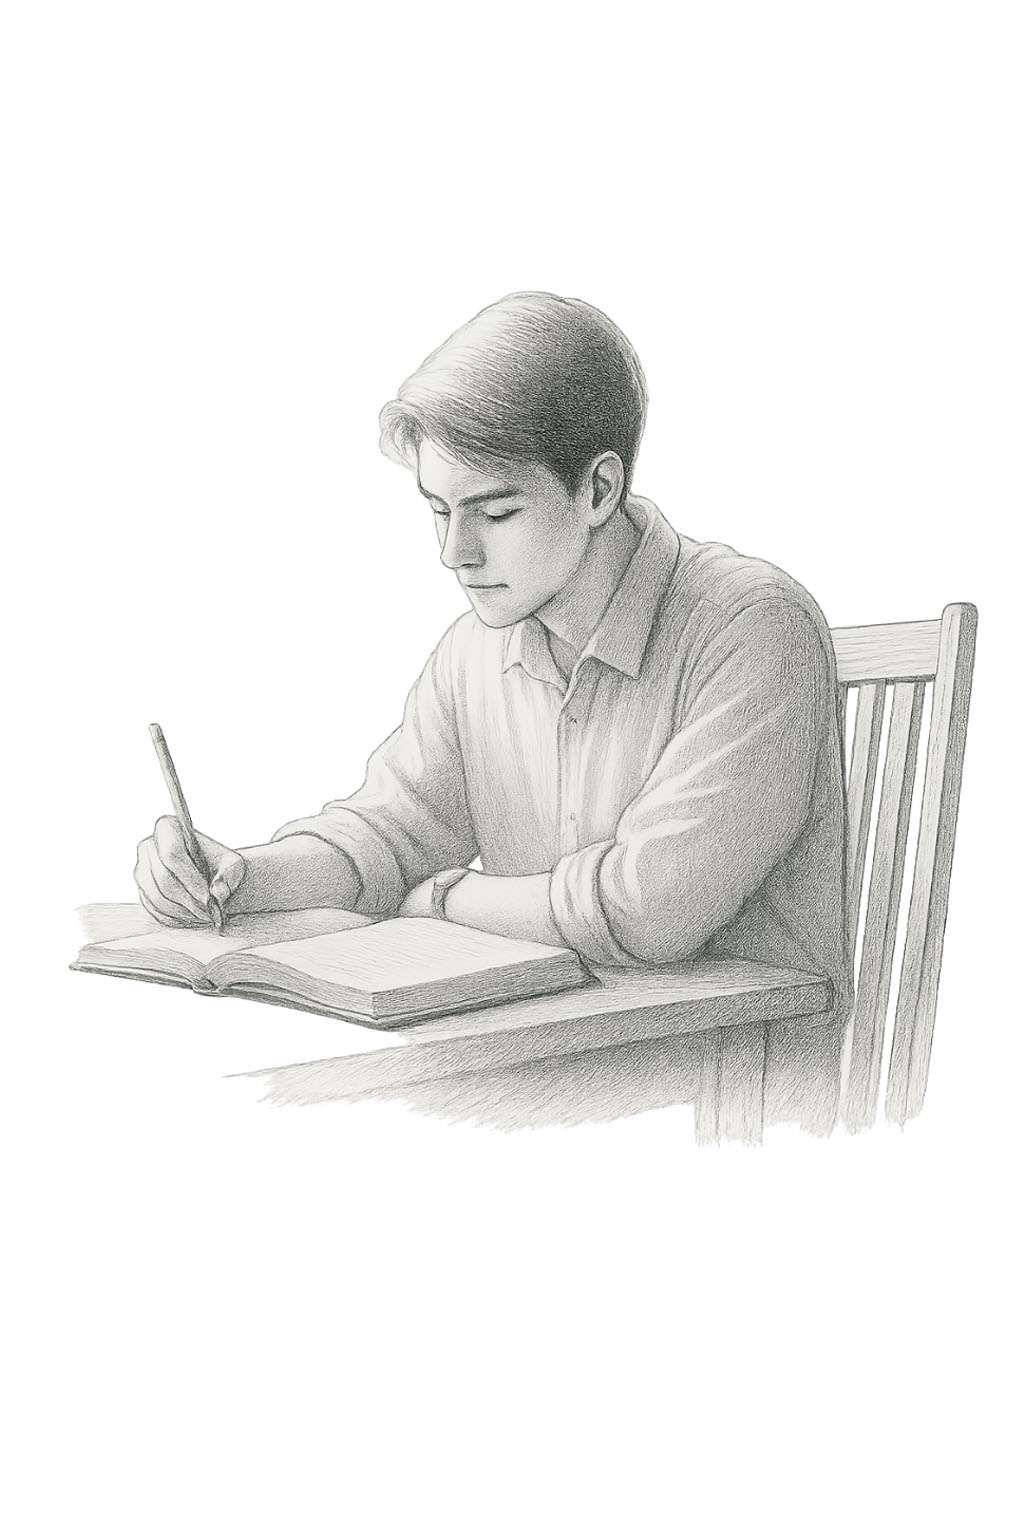
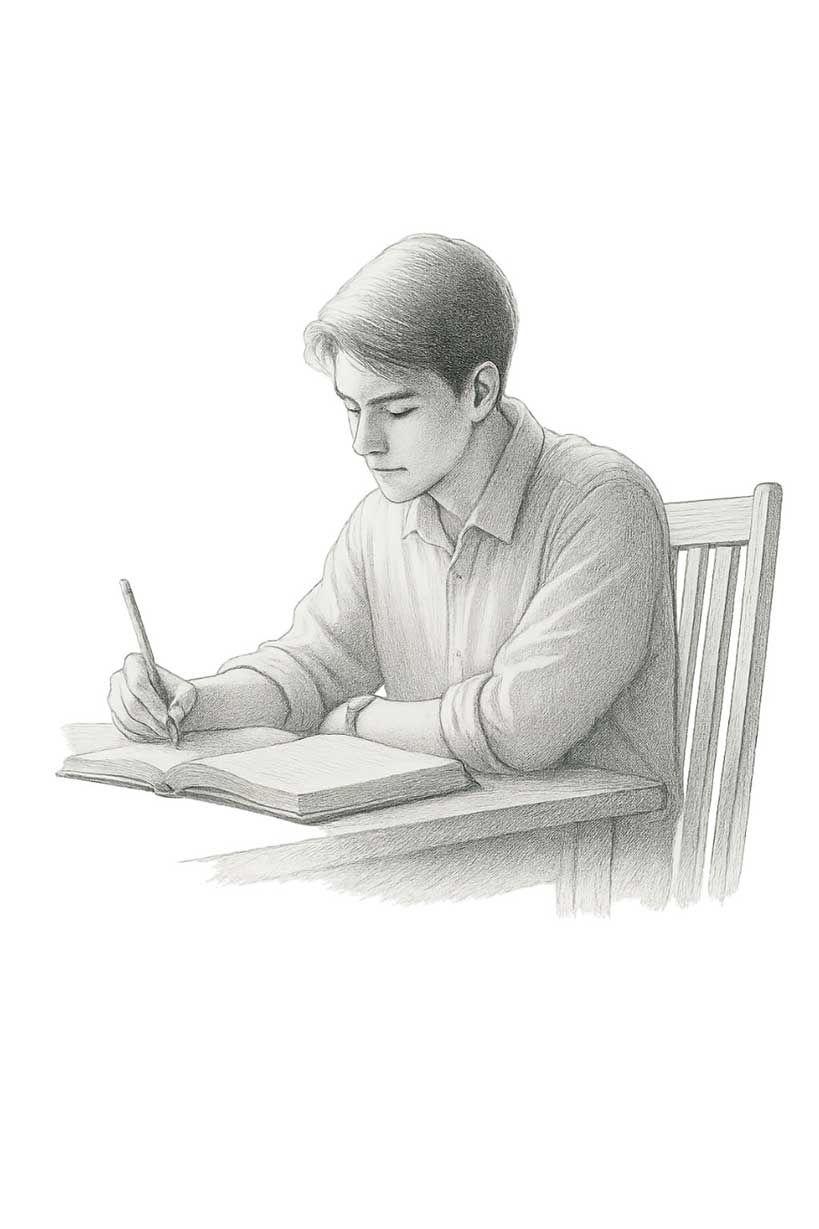
Add files via upload

diff --git a/tacphammoi.html b/tacphammoi.html
@@ -236,7 +236,7 @@ window.addEventListener('scroll', function() {
 
 
 <section class="hero-banner-section">
-    <img src="tacphammoi.jpg" alt="Miền Bình Yên - Tác giả Thiện Nhân" class="hero-image">
+    <img src="tacphammoi.jpg" width="1400" height="560" alt="Miền Bình Yên - Tác giả Thiện Nhân" class="hero-image">
 </section>
 
 <style>
@@ -353,7 +353,7 @@ window.addEventListener('scroll', function() {
             Tác phẩm theo chân Paco – một cậu bé bước ra từ vùng quê yên bình để đi vào một thế giới khác, nơi mọi thứ không còn rõ ràng đúng sai như trong trí nhớ tuổi nhỏ. Nhưng câu chuyện không chỉ là về Paco. Mỗi bước đi của cậu – mỗi giằng co, mỗi lần hoài nghi, mỗi khoảnh khắc mỏi mệt đến mức muốn buông tay – đều là hình ảnh phản chiếu của những điều mà ai rồi cũng phải trải qua.
         </p>
 
-        <img src="gioithieu_ddby.png" alt="Đường Đến Bình Yên" class="book-image">
+        <img src="gioithieu_ddby.png" width="1365" height="910" alt="Đường Đến Bình Yên" class="book-image">
     </div>
 </section>
 
@@ -388,7 +388,7 @@ window.addEventListener('scroll', function() {
             Đừng đọc <em>Thì Thầm</em> khi bạn đang vội. Hãy dành cho nó một khoảng lặng, một tách trà, và để những con chữ dẫn dắt bạn trở về với những miền cảm xúc nguyên sơ nhất của mình.
         </p>
 
-        <img src="gioithieu_thitham.png" alt="Thì Thầm" class="book-image">
+        <img src="gioithieu_thitham.png" width="1440" height="960" alt="Thì Thầm" class="book-image">
     </div>
 </section>
 
@@ -424,7 +424,7 @@ window.addEventListener('scroll', function() {
             Khi gấp sách lại, bạn sẽ nhận ra: mỗi bước đi, dù vấp ngã hay dằn vặt, cũng đều là một phần cần thiết để quay về với chính mình.
         </p>
 
-        <img src="bia_duong den binh yen_4t.jpg" alt="Đường Đến Bình Yên" class="book-image">
+        <img src="bia_duong den binh yen_4t.jpg" width="1500" height="760" alt="Đường Đến Bình Yên" class="book-image">
     </div>
 </section>
 
@@ -460,7 +460,7 @@ window.addEventListener('scroll', function() {
             Tác phẩm này dành cho những ai từng tổn thương – và vẫn muốn sống dịu dàng. Dành cho những người không chọn trở nên cứng rắn, mà chọn trở nên chân thành. Nếu bạn đang đi qua những ngày không dễ dàng, hãy thử một lần lật mở Thì Thầm. Không để giải quyết điều gì. Chỉ để nhớ rằng: sống sâu sắc… không có nghĩa là phải nói lớn.
         </p>
 
-        <img src="bia_thi tham_4t.jpg" alt="Thì Thầm" class="book-image">
+        <img src="bia_thi tham_4t.jpg" width="1500" height="760" alt="Thì Thầm" class="book-image">
     </div>
 </section>
 
@@ -556,19 +556,19 @@ window.addEventListener('scroll', function() {
 
         <div class="milestone-grid">
             <div class="milestone-item">
-                <img src="ddby.jpg" alt="Đường đến bình yên" class="milestone-img">
+                <img src="ddby.jpg" width="667" height="1000" alt="Đường đến bình yên" class="milestone-img">
                 <span class="milestone-time">Xuất bản và phát hành 12/2024</span>
                 <p class="milestone-text">Cuốn sách đầu tiên mở ra hành trình viết về chữa lành và tìm lại sự tĩnh lặng trong tâm hồn.</p>
             </div>
 
             <div class="milestone-item">
-                <img src="thi_tham.jpg" alt="Thì thầm" class="milestone-img">
+                <img src="thi_tham.jpg" width="667" height="1000" alt="Thì thầm" class="milestone-img">
                 <span class="milestone-time">Xuất bản và phát hành 05/2025</span>
                 <p class="milestone-text">Tập tản văn ghi lại những chiêm nghiệm nhẹ nhàng, như lời thì thầm từ sâu thẳm trái tim, nâng đỡ người đọc trong từng khoảnh khắc đời sống.</p>
             </div>
 
             <div class="milestone-item">
-                <img src="nguoiviet.jpg" alt="Các dự án tiếp theo" class="milestone-img">
+                <img src="nguoiviet.jpg" width="819" height="1229" alt="Các dự án tiếp theo" class="milestone-img">
                 <span class="milestone-time">Các dự án tiếp theo</span>
                 <p class="milestone-text">Chuỗi tác phẩm sắp ra mắt, tiếp tục đồng hành cùng bạn đọc trên con đường tìm kiếm bình yên và sự thấu hiểu.</p>
             </div>
